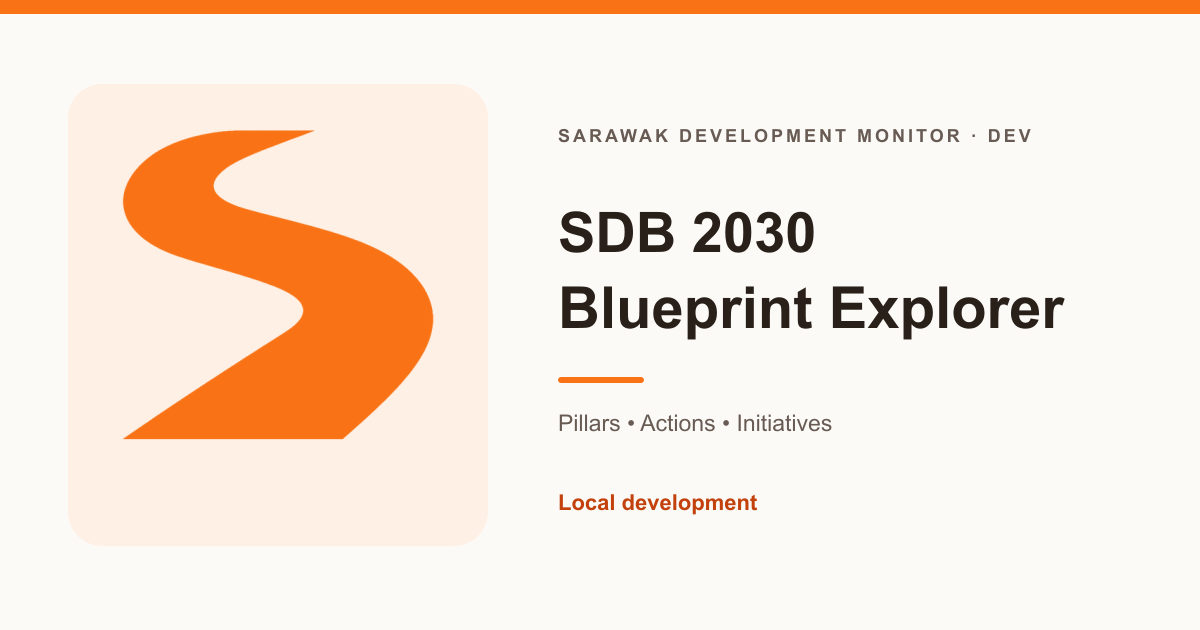
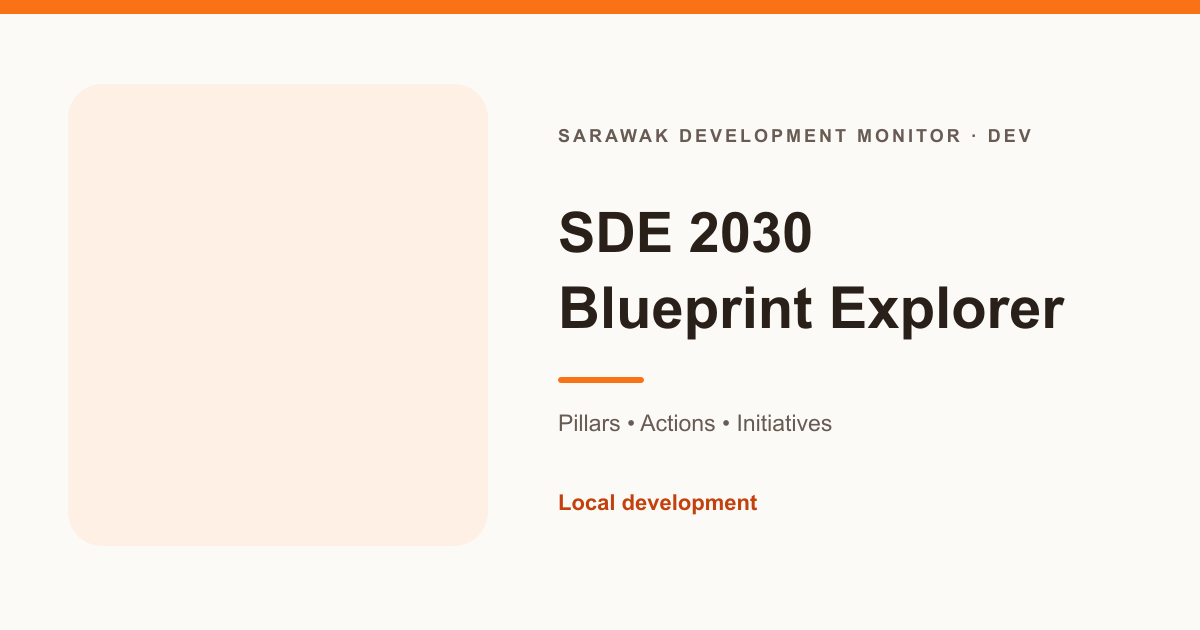
chore: rename local project to sde-tracker

Changed region(s): [[0.0925, 0.181, 0.37, 0.7238], [0.555, 0.3317, 0.6783, 0.3921]]

diff --git a/index.html b/index.html
@@ -2,18 +2,18 @@
 <html lang="en">
   <head>
     <meta charset="UTF-8" />
-    <link rel="icon" type="image/png" sizes="512x512" href="/favicon-%MODE%-browser.png?v=20260810sdb1" />
-    <link rel="icon" type="image/png" sizes="48x48" href="/favicon-%MODE%-browser-48x48.png?v=20260810sdb1" />
-    <link rel="icon" type="image/png" sizes="32x32" href="/favicon-%MODE%-browser-32x32.png?v=20260810sdb1" />
-    <link rel="icon" type="image/png" sizes="16x16" href="/favicon-%MODE%-browser-16x16.png?v=20260810sdb1" />
-    <link rel="icon" href="/favicon-%MODE%-browser.ico?v=20260810sdb1" sizes="16x16 32x32 48x48" />
-    <link rel="apple-touch-icon" sizes="180x180" href="/apple-touch-icon-%MODE%.png?v=20260810sdb1" />
+    <link rel="icon" type="image/png" sizes="512x512" href="/favicon-%MODE%-browser.png?v=20260811sde1" />
+    <link rel="icon" type="image/png" sizes="48x48" href="/favicon-%MODE%-browser-48x48.png?v=20260811sde1" />
+    <link rel="icon" type="image/png" sizes="32x32" href="/favicon-%MODE%-browser-32x32.png?v=20260811sde1" />
+    <link rel="icon" type="image/png" sizes="16x16" href="/favicon-%MODE%-browser-16x16.png?v=20260811sde1" />
+    <link rel="icon" href="/favicon-%MODE%-browser.ico?v=20260811sde1" sizes="16x16 32x32 48x48" />
+    <link rel="apple-touch-icon" sizes="180x180" href="/apple-touch-icon-%MODE%.png?v=20260811sde1" />
     <meta name="viewport" content="width=device-width, initial-scale=1.0" />
     <meta name="theme-color" content="#ffffff" />
     <script>
       (() => {
         try {
-          const savedTheme = localStorage.getItem("sdb-theme");
+          const savedTheme = localStorage.getItem("sde-theme") || localStorage.getItem("sdb-theme");
           const theme = savedTheme === "light" || savedTheme === "dark"
             ? savedTheme
             : "light";

diff --git a/src/SiteControls.jsx b/src/SiteControls.jsx
@@ -176,11 +176,11 @@ export function ThemeToggle({ onThemeToggle, copy }) {
       title={next === "dark" ? copy.themeToggle.switchToDark : copy.themeToggle.switchToLight}
     >
       <svg className="theme-icon-morph" aria-hidden="true" width="18" height="18" viewBox="0 0 24 24">
-        <mask id="sdb-theme-toggle-moon-mask">
+        <mask id="sde-theme-toggle-moon-mask">
           <rect width="24" height="24" fill="#fff" />
           <circle className="theme-icon-hole" cx="17" cy="7" r="7" fill="#000" />
         </mask>
-        <circle className="theme-icon-core" cx="12" cy="12" r="9" mask="url(#sdb-theme-toggle-moon-mask)" />
+        <circle className="theme-icon-core" cx="12" cy="12" r="9" mask="url(#sde-theme-toggle-moon-mask)" />
         <g className="theme-icon-rays">
           <line x1="12" y1="1.6" x2="12" y2="3.8" />
           <line x1="12" y1="20.2" x2="12" y2="22.4" />

diff --git a/src/App.jsx b/src/App.jsx
@@ -308,7 +308,7 @@ export default function App({ language, onNavigate, headingRef }) {
   const filterIndexDenominator = Math.max(visible.length - 1, 1);
   const toggleTheme = (theme) => {
     applyDocumentTheme(theme);
-    try { localStorage.setItem("sdb-theme", theme); } catch { /* Session theme remains active. */ }
+    try { localStorage.setItem("sde-theme", theme); } catch { /* Session theme remains active. */ }
   };
 
   return (

diff --git a/AGENTS.md b/AGENTS.md
@@ -1,6 +1,6 @@
 # Agent Instructions
 
-This repository is the independent SDB 2030 Blueprint Explorer, a Vite and React static site based on the proven PCDS 2030 tracker shell.
+This repository is the independent SDE 2030 Blueprint Explorer, a Vite and React static site based on the proven PCDS 2030 tracker shell.
 
 ## Working Rules
 
